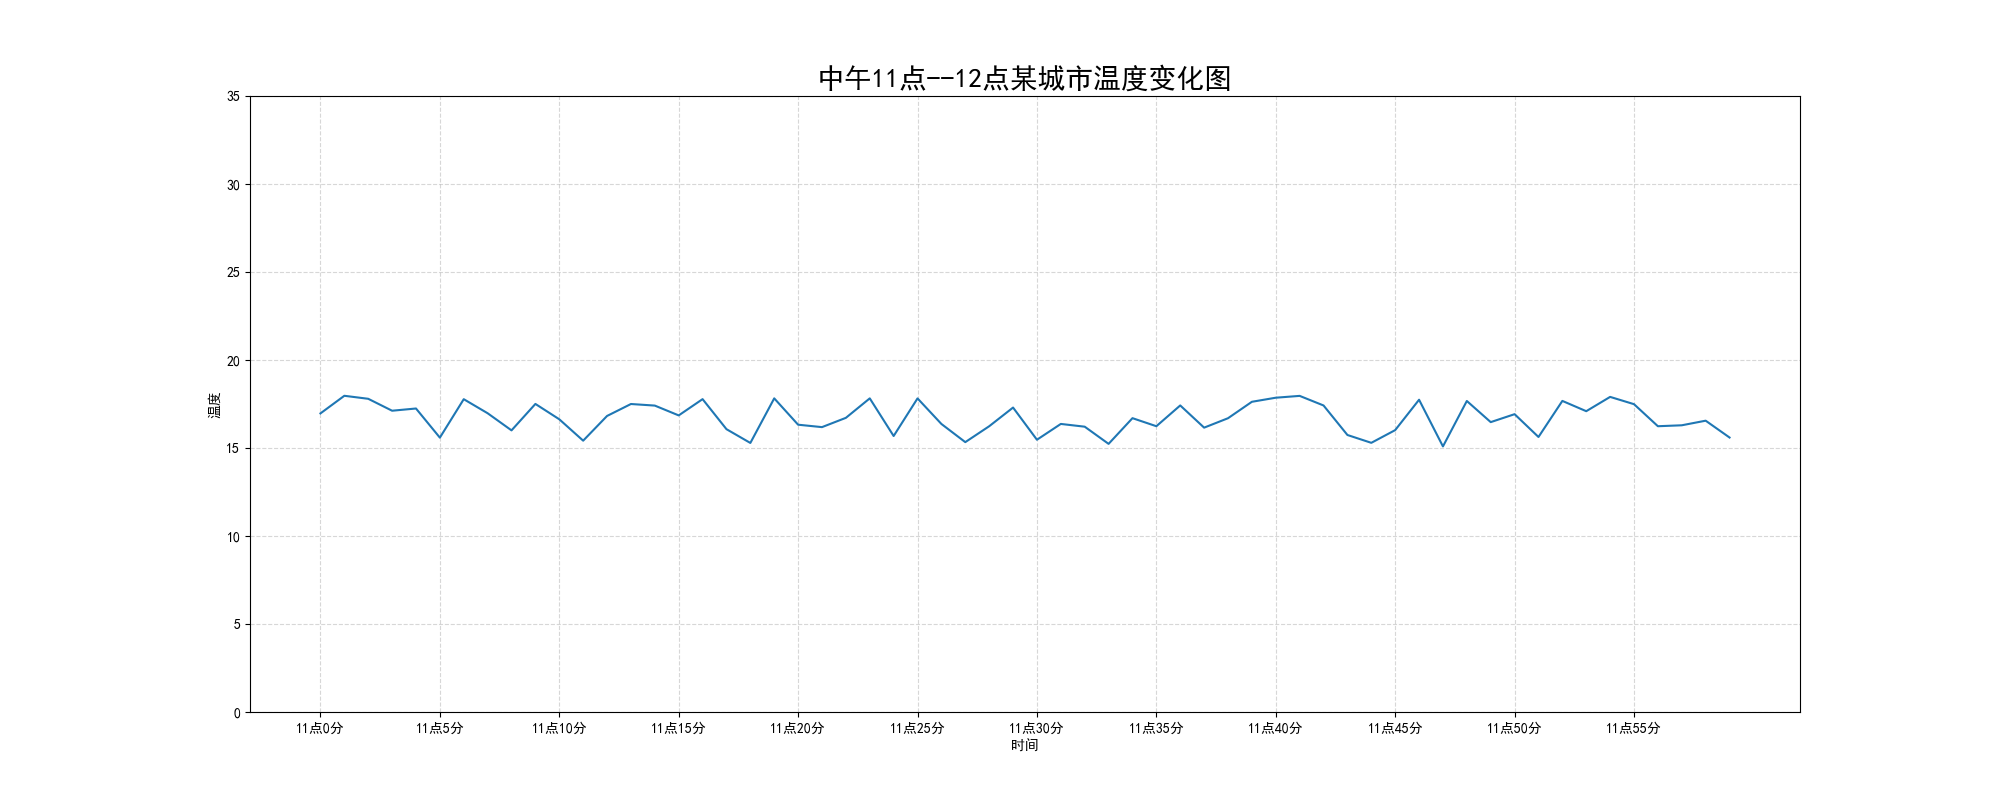
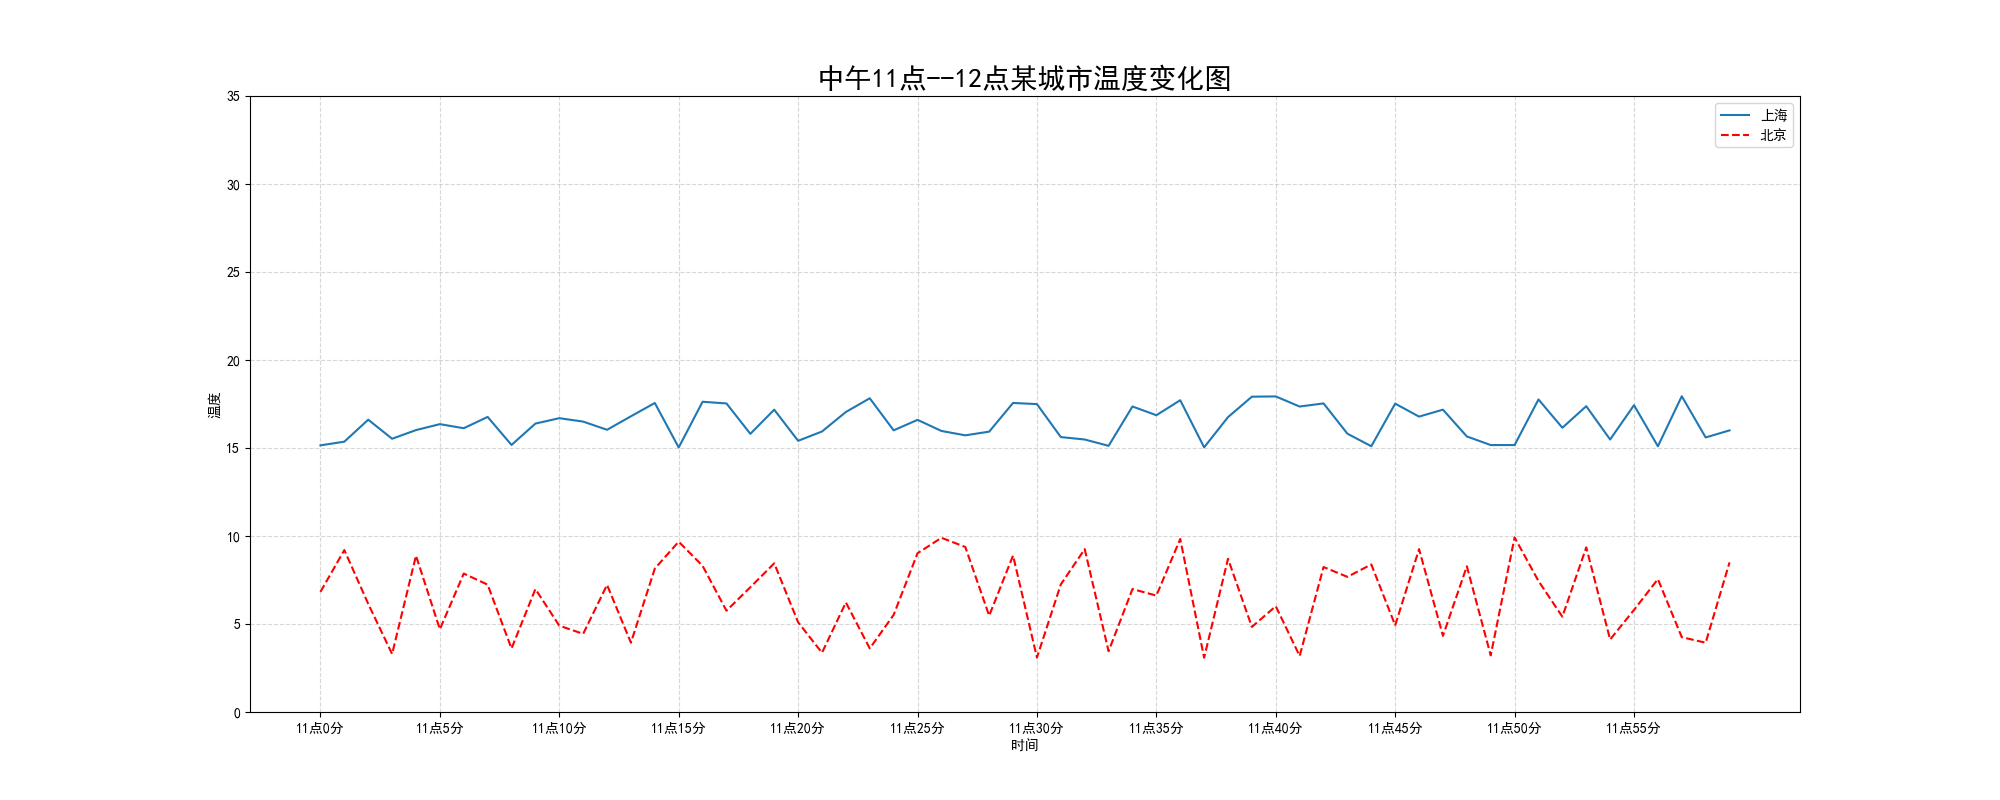
显示图例

diff --git a/01-matplotlib/1-hello_word.py b/01-matplotlib/1-hello_word.py
@@ -8,18 +8,19 @@ mpl.rcParams["font.sans-serif"] = ["SimHei"]
 mpl.rcParams["axes.unicode_minus"] = False
 
 
-
 def main():
     # 0.准备数据
     x = range(60)
     # uniform 生成一个随机实数
     y_shanghai = [random.uniform(15, 18) for i in x]
+    y_beijing = [random.uniform(3, 10) for i in x]
 
     # 1.创建画布
     plt.figure(figsize=(20, 8), dpi=100)
 
     # 2.绘制图像
-    plt.plot(x, y_shanghai)
+    plt.plot(x, y_shanghai, label="上海")
+    plt.plot(x, y_beijing, color="r", linestyle="--", label="北京")
 
     # 2.1 添加x,y轴刻度
     # 构造x,y轴刻度标签
@@ -38,6 +39,8 @@ def main():
     plt.ylabel("温度")
     plt.title("中午11点--12点某城市温度变化图", fontsize=20)
 
+    # 显示图例  loc显示位置 best自动设置位置
+    plt.legend(loc="best")
     # 2.4 图像保存，在show之前保存
     # show之后会释放数据，就会变成一张空白图
     plt.savefig("./test.png")
